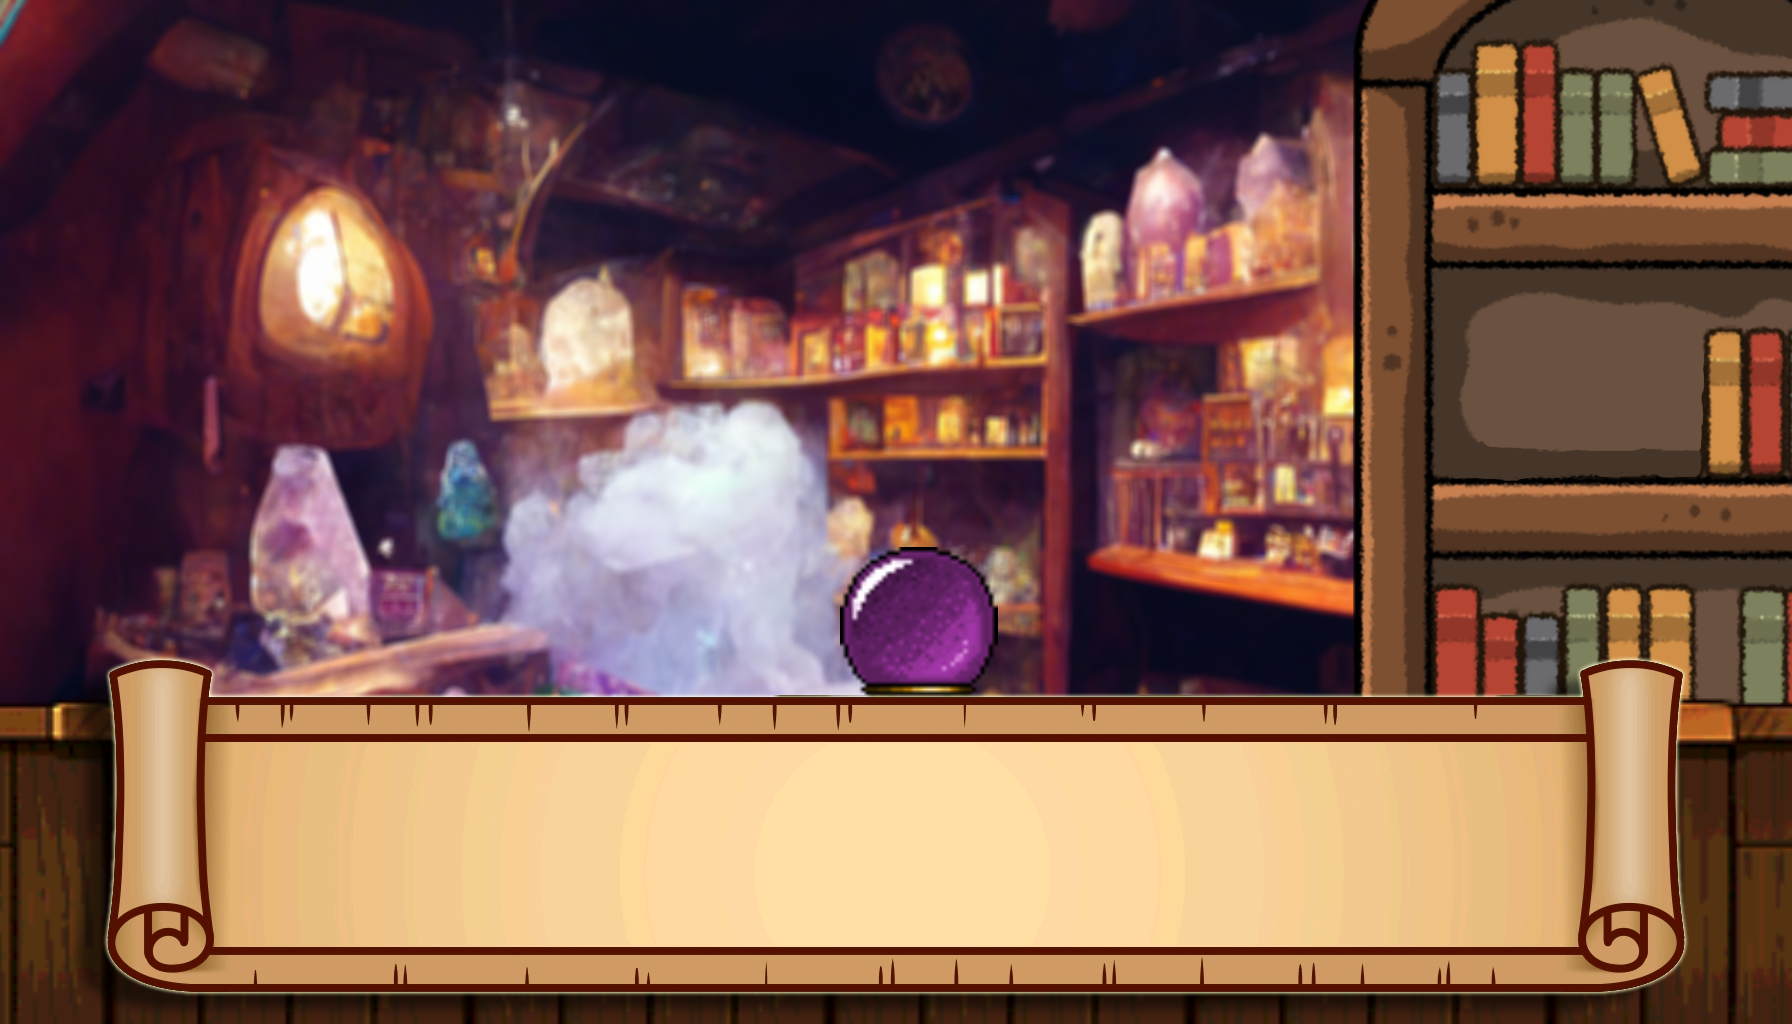
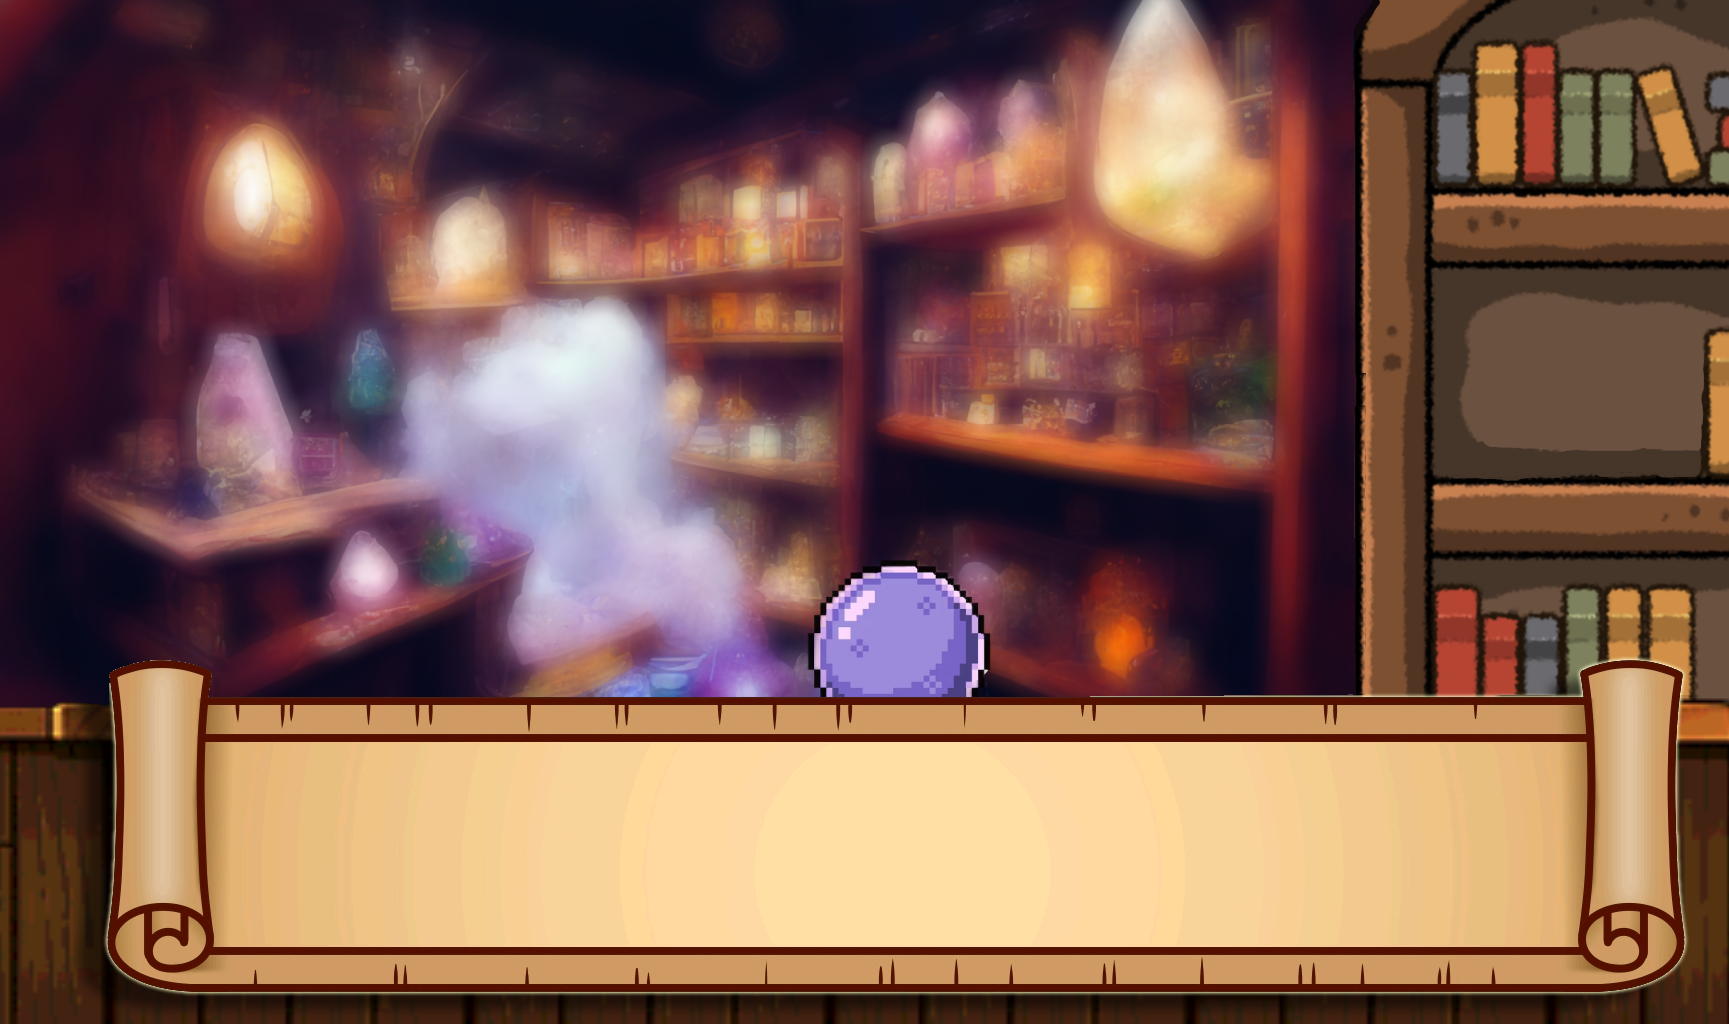
set_timer background

diff --git a/code/game_states/class_play.py b/code/game_states/class_play.py
@@ -30,7 +30,7 @@ class Play:
         self.lista_cfg = PLAY_ASSETS
         
         #TEXTO
-        self.timer = Box((630, 410), (50,50)) 
+        self.timer = Box((618, 420), (50,50)) 
         self.initial_time = pygame.time.get_ticks()
 
         self.score = score
@@ -39,6 +39,7 @@ class Play:
         self.music = self.set_music()
         #IMG
         self.background = Image(PLAY_BACKGROUND_1, (0,0), (1280,720))
+        self.background_list = [PLAY_BACKGROUND_1, PLAY_BACKGROUND_2, PLAY_BACKGROUND_3]  
 
         self.images = [self.background, self.comodin_button]
 
@@ -74,7 +75,7 @@ class Play:
 
         self.surface.fill("black")
        
-        draw_assets(self.surface, self.box_list, self.images, self.lista_cfg)
+        draw_assets(self.surface, self.box_list, [self.background, self.comodin_button], self.lista_cfg)
 
         draw_cards(self.surface, self.cards_cfg["empty_card_list"], transparency=155)
         draw_cards(self.surface, self.cards_cfg["card_list"])
@@ -97,6 +98,7 @@ class Play:
         menu = False
 
         JOIN_CARDS = pygame.USEREVENT + 1
+        pygame.time.set_timer(pygame.USEREVENT + 2, 25000)
 
         if event.type == JOIN_CARDS:
             word = join_cards(self.cards_cfg["selected_letters"], self.cards_cfg["founded_words"], self.combinaciones)
@@ -104,6 +106,9 @@ class Play:
                 self.cards_cfg["founded_words"].append(word)
                 reset_pos(self.cards_cfg["card_list"], self.cards_cfg["selected_letters"], self.cards_cfg["pos_ocupadas"], self.cards_cfg["pos_libres"])
                 self.score += sum_score(score, word)
+        
+        elif event.type == pygame.USEREVENT + 2:
+            self.background = Image(select_random_element(self.background.image_path, self.background_list), (0,0), (1280,720))
 
         elif count_select_letters(self.cards_cfg["selected_letters"]) > 2:
             join = self.join_button.interaction(event)

diff --git a/code/game_tools/card.py b/code/game_tools/card.py
@@ -1,5 +1,6 @@
 from game_tools.class_image import * 
 from game_tools.class_box import *
+from game_tools.extra_functions import *
 import random
 
 class Card:
@@ -81,7 +82,7 @@ def set_cards_interaction(event, card_list:list[Card], selected_letters:list, po
                 position_list.pop(0)
             
                 selected_letters[pos] = card.letter
-                print(position_list)
+                
                 card.append = True
                
                 card.card_box.rectangulo.x, card.card_box.rectangulo.y = card_list[pos].card_box.original_rectangulo.x, 250
@@ -103,7 +104,7 @@ def return_card (card_list:list[Box], card, selected_letters:list, free_spaces, 
 
     selected_letters[card.card_pos] = ""
     position_list.append(card.card_pos)
-    position_list.sort()
+    ordenar_elementos(position_list, 1)
 
     card.card_pos = free_spaces[len(free_spaces) - 1]
     free_spaces.remove(card.card_pos)
@@ -137,12 +138,12 @@ def join_cards (selected_letters:list, words_founded:list, combinaciones):
 def shuffle (card_list):
     shuffle_card = []
     for card in card_list:
-        print(card.letter)
+        
         if card.append is False:
             shuffle_card.append(card.letter)
     for card in card_list:
         if card.append is False:
            
             card.letter = shuffle_card.pop(random.randint(0, len(shuffle_card) - 1))
-        print(card.letter)
+        
 

diff --git a/code/game_tools/extra_functions.py b/code/game_tools/extra_functions.py
@@ -1,5 +1,6 @@
 from game_tools.class_box import *
 from constantes import *
+import random
 
 def ordenar_elementos (list:list[dict], orden:int, key = None):
 
@@ -39,3 +40,11 @@ def render_multi_line(surface, text, x, y, font_size, center_text = False):
     for i, line in enumerate(lines):
         box_line = Box((x, y + font_size // 3 * i), (50,50))
         box_line.draw_text(surface, line, "white", FUENTE_1, font_size, "shadow", 2, "black", center = center_text)
+
+def select_random_element(actual_element, lista_elementos) -> str | int:
+    
+    random_element = random.choice(lista_elementos)
+    while random_element == actual_element:
+        random_element = random.choice(lista_elementos)
+
+    return random_element

diff --git a/code/constantes.py b/code/constantes.py
@@ -41,8 +41,13 @@ COMODIN_HOVER = r"code\data\img\spell_comodin_hover.png"
 CHAINS = r"code\data\img\chains2.png"
 
 MENU_BACKGROUND = r"code\data\img\House 2.png"
+
 PLAY_BACKGROUND_1 = r"code\data\img\play_bg.png"
+PLAY_BACKGROUND_2 = r"code\data\img\play_bg2.png"
+PLAY_BACKGROUND_3 = r"code\data\img\play_bg3.png"
+
 HELP_BACKGROUND = r"code\data\img\Grimoire_blur.jpg"
+
 FINISH_MATCH_BACKGROUND = r"code\data\sound\finishmatch_music.mp3"
 
 # SONIDO
@@ -52,7 +57,7 @@ MENU_MUSIC = r"code\data\sound\musica_menu.mp3"
 PLAY_MUSIC = r"code\data\sound\play_music.wav"
 CARTAS_SOUND = r"code\data\sound\card_click.wav"
 
-TIEMPO_LIMITE = 5
+TIEMPO_LIMITE = 90
 
 #CONFIG PATH
 SCOREBOARD_PATH = r"code\data\config\scoreboard.csv"

diff --git a/code/game_tools/words.py b/code/game_tools/words.py
@@ -41,9 +41,9 @@ def draw_words (surface, matrix, words_founded:list, comodin, random_letter):
                     x -= 100
                 break
 
-def sum_score(scoreboard:int, word):
-    scoreboard += len(word)
-    return scoreboard
+def sum_score(score:int, word):
+    score += len(word)
+    return score
 
 def normalize_words (combinations) -> list[list]:
     palabras = {3: [], 4: [], 5: [], 6: []}
@@ -62,7 +62,6 @@ def normalize_words (combinations) -> list[list]:
                 matriz[i][j] = palabras[6-i][j]
 
     return matriz
-
 
 def select_random_letter (combinaciones):
     elemento_random = random.randint(0, len(combinaciones) - 1)

diff --git a/code/game_tools/class_image.py b/code/game_tools/class_image.py
@@ -6,8 +6,9 @@ class Image:
     def __init__(self, image_path, coords, dimensiones, image_hover_path = None, press_sound = None) -> None:
 
         self.image_box = Box(coords, dimensiones, press_sound = press_sound)
+        self.image_path = image_path
         
-        self.image_surface = pygame.image.load(image_path)
+        self.image_surface = pygame.image.load(self.image_path)
         self.image_surface = pygame.transform.scale(self.image_surface, dimensiones)
 
         self.image_hover = None

diff --git a/code/game_tools/draw_functions.py b/code/game_tools/draw_functions.py
@@ -2,7 +2,6 @@ from game_tools.class_box import Box
 from game_tools.class_image import *
 
 def set_buttons_colors(button_list, lista_cfg):
-        print(len(button_list))
         for i in range(len(button_list)):
             if len(lista_cfg[i]["colors"]) > 0:
                 button_list[i].set_color(*lista_cfg[i]["colors"])
